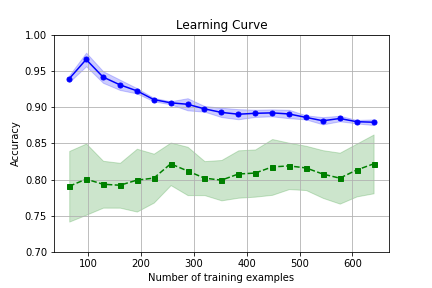
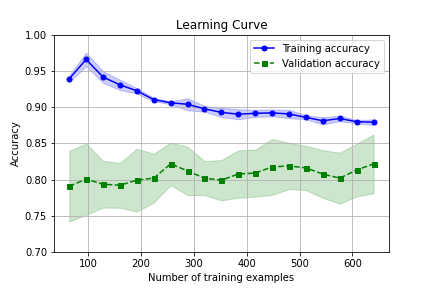
3/6 Updated.

Changed region(s): [[0.5718, 0.125, 0.9028, 0.2812]]

diff --git a/nb/nb008_data_analysis.py b/nb/nb008_data_analysis.py
@@ -215,7 +215,7 @@ bestclf = gs.best_estimator_
 print('Test accuracy: %f' % bestclf.score(X_test, y_test))
 
 
-# In[ ]:
+# In[22]:
 
 
 # Learning Curve
@@ -223,7 +223,7 @@ print('Test accuracy: %f' % bestclf.score(X_test, y_test))
 
 from sklearn.model_selection import learning_curve
 
-fig = plt.figure(figsize=(9.6, 3.2), dpi=100)
+fig = plt.figure(figsize=(9.6, 3.2), dpi=80)
 
 # SVCのプロット
 svc_train_sizes, svc_train_scores, svc_valid_scores = learning_curve(estimator=pl_svc, X=X_train, y=y_train,
@@ -243,6 +243,7 @@ plt.title('SVC')
 plt.ylim(0.7, 1.0)
 plt.xlabel('Number of training examples')
 plt.ylabel('Accuracy')
+plt.legend()
 
 # ランダムフォレストのプロット
 randf_train_sizes, randf_train_scores, randf_valid_scores = learning_curve(estimator=pl_randf, X=X_train, y=y_train,
@@ -262,6 +263,7 @@ plt.title('Random Forest Classifier')
 plt.ylim(0.7, 1.0)
 plt.xlabel('Number of training examples')
 plt.ylabel('Accuracy')
+plt.legend()
 
 # プロット画像保存
 plt.savefig('../image/nb008_learningcurve.png')

diff --git a/nb/nb006_analysis.py b/nb/nb006_analysis.py
@@ -85,7 +85,7 @@ for k, (train, test) in enumerate(kfold):
     print('Fold: %d, Class dist: %s, Accuracy: %.3f' % (k+1, np.bincount(y_train[train]), score))
 
 
-# In[25]:
+# In[27]:
 
 
 # Learning Curve
@@ -109,6 +109,7 @@ plt.title('Learning Curve')
 plt.xlabel('Number of training examples')
 plt.ylabel('Accuracy')
 plt.ylim(0.7, 1.0)
+plt.legend()
 
 plt.savefig('../image/nb006_learningcurve.png')
 
